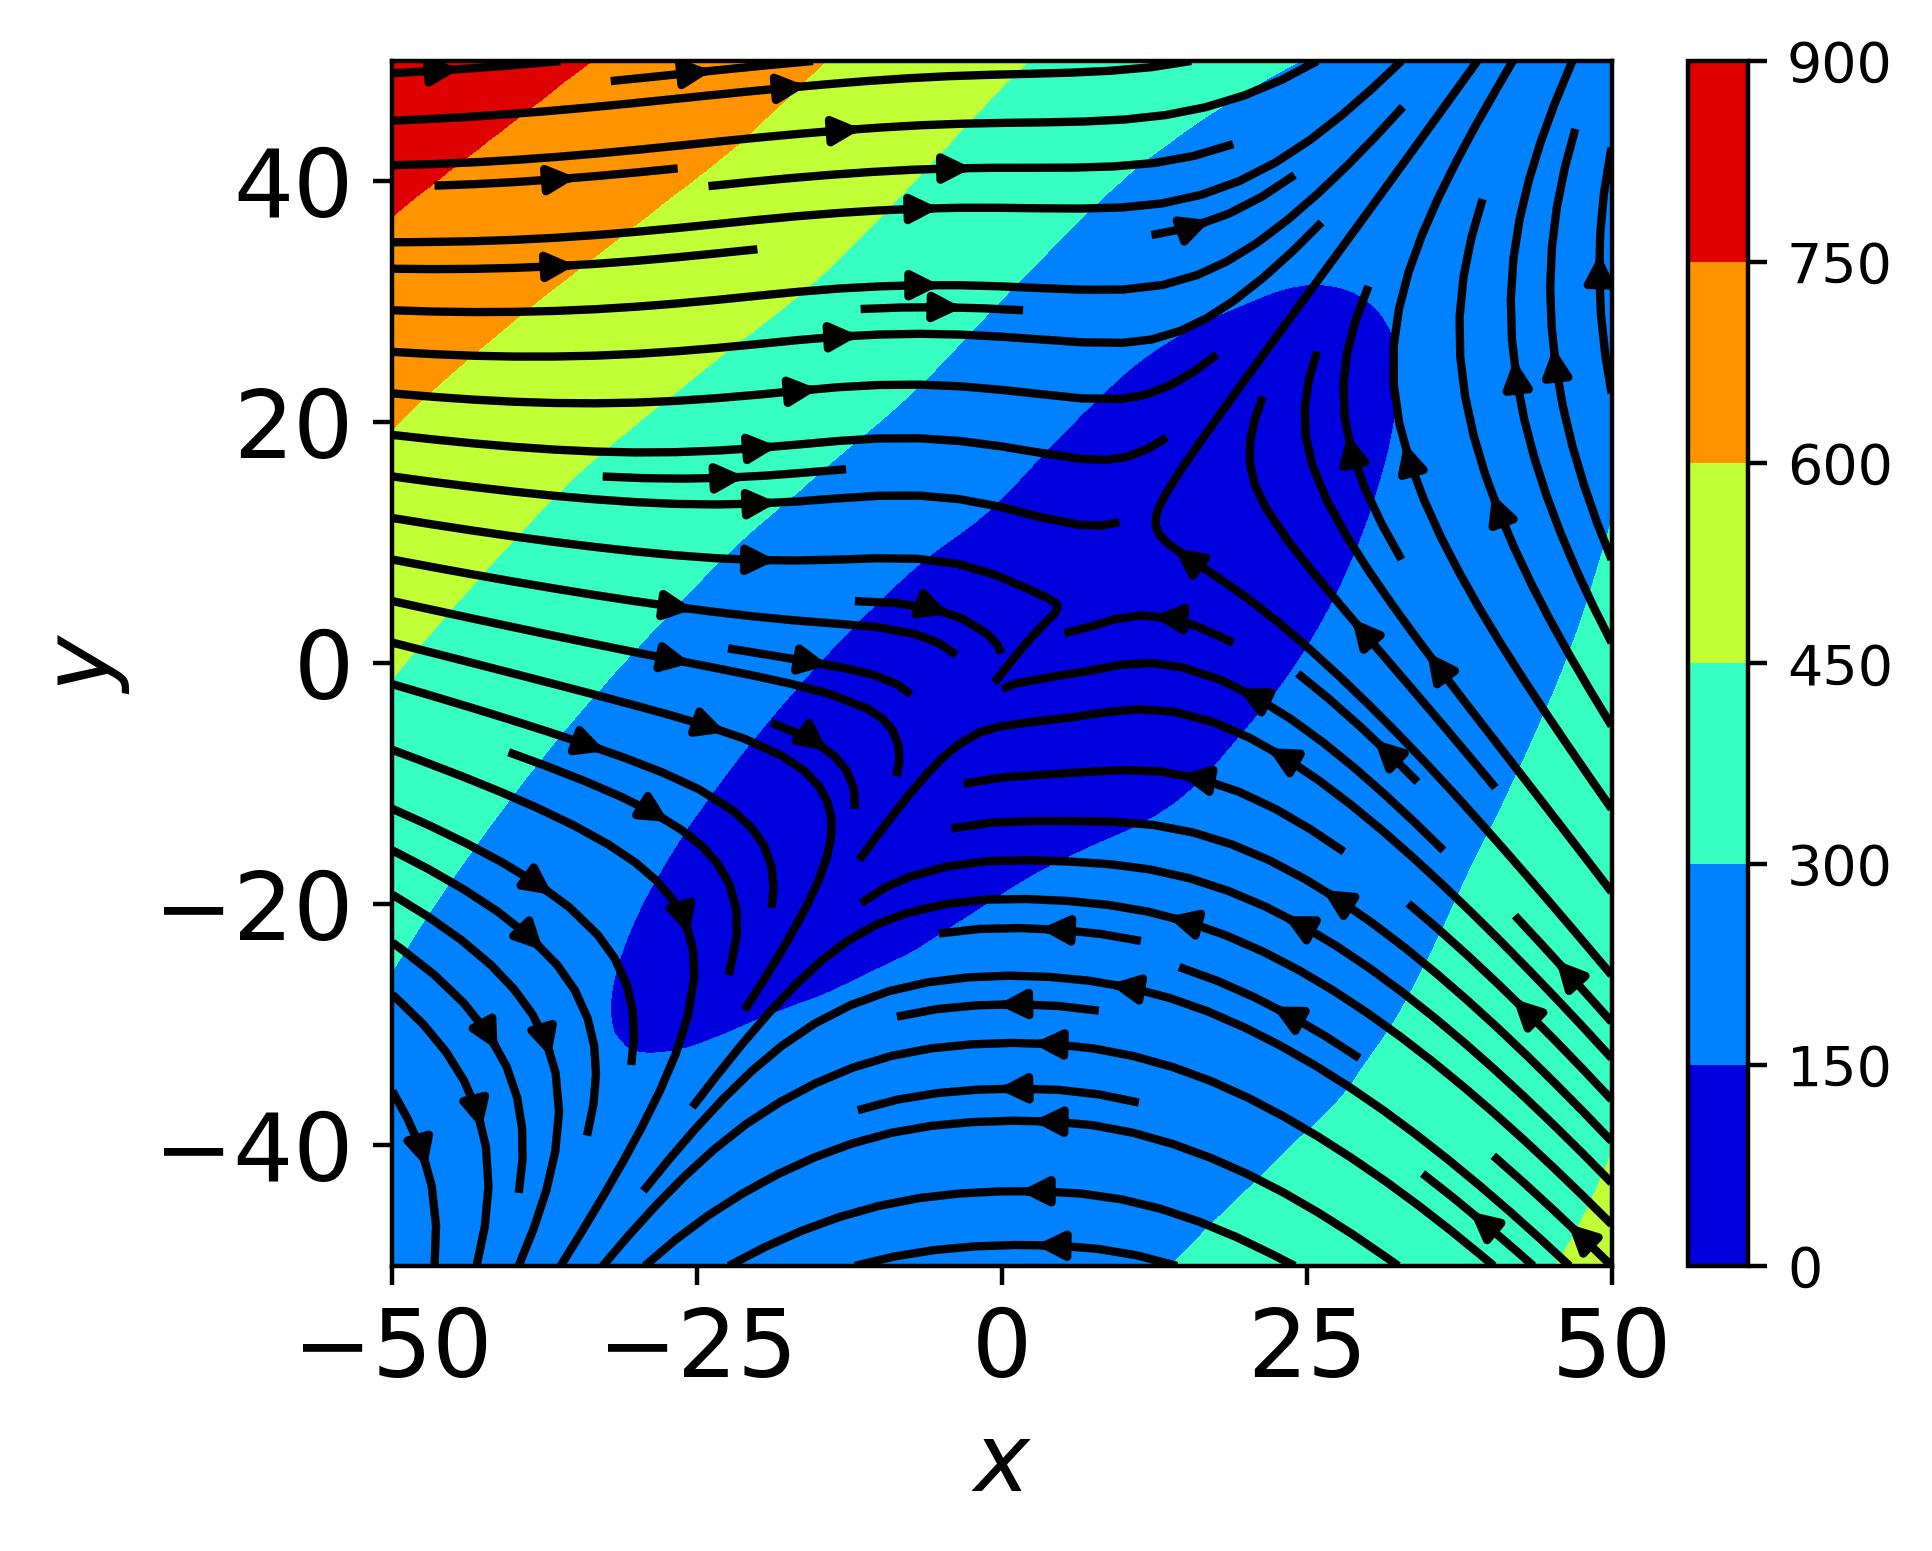
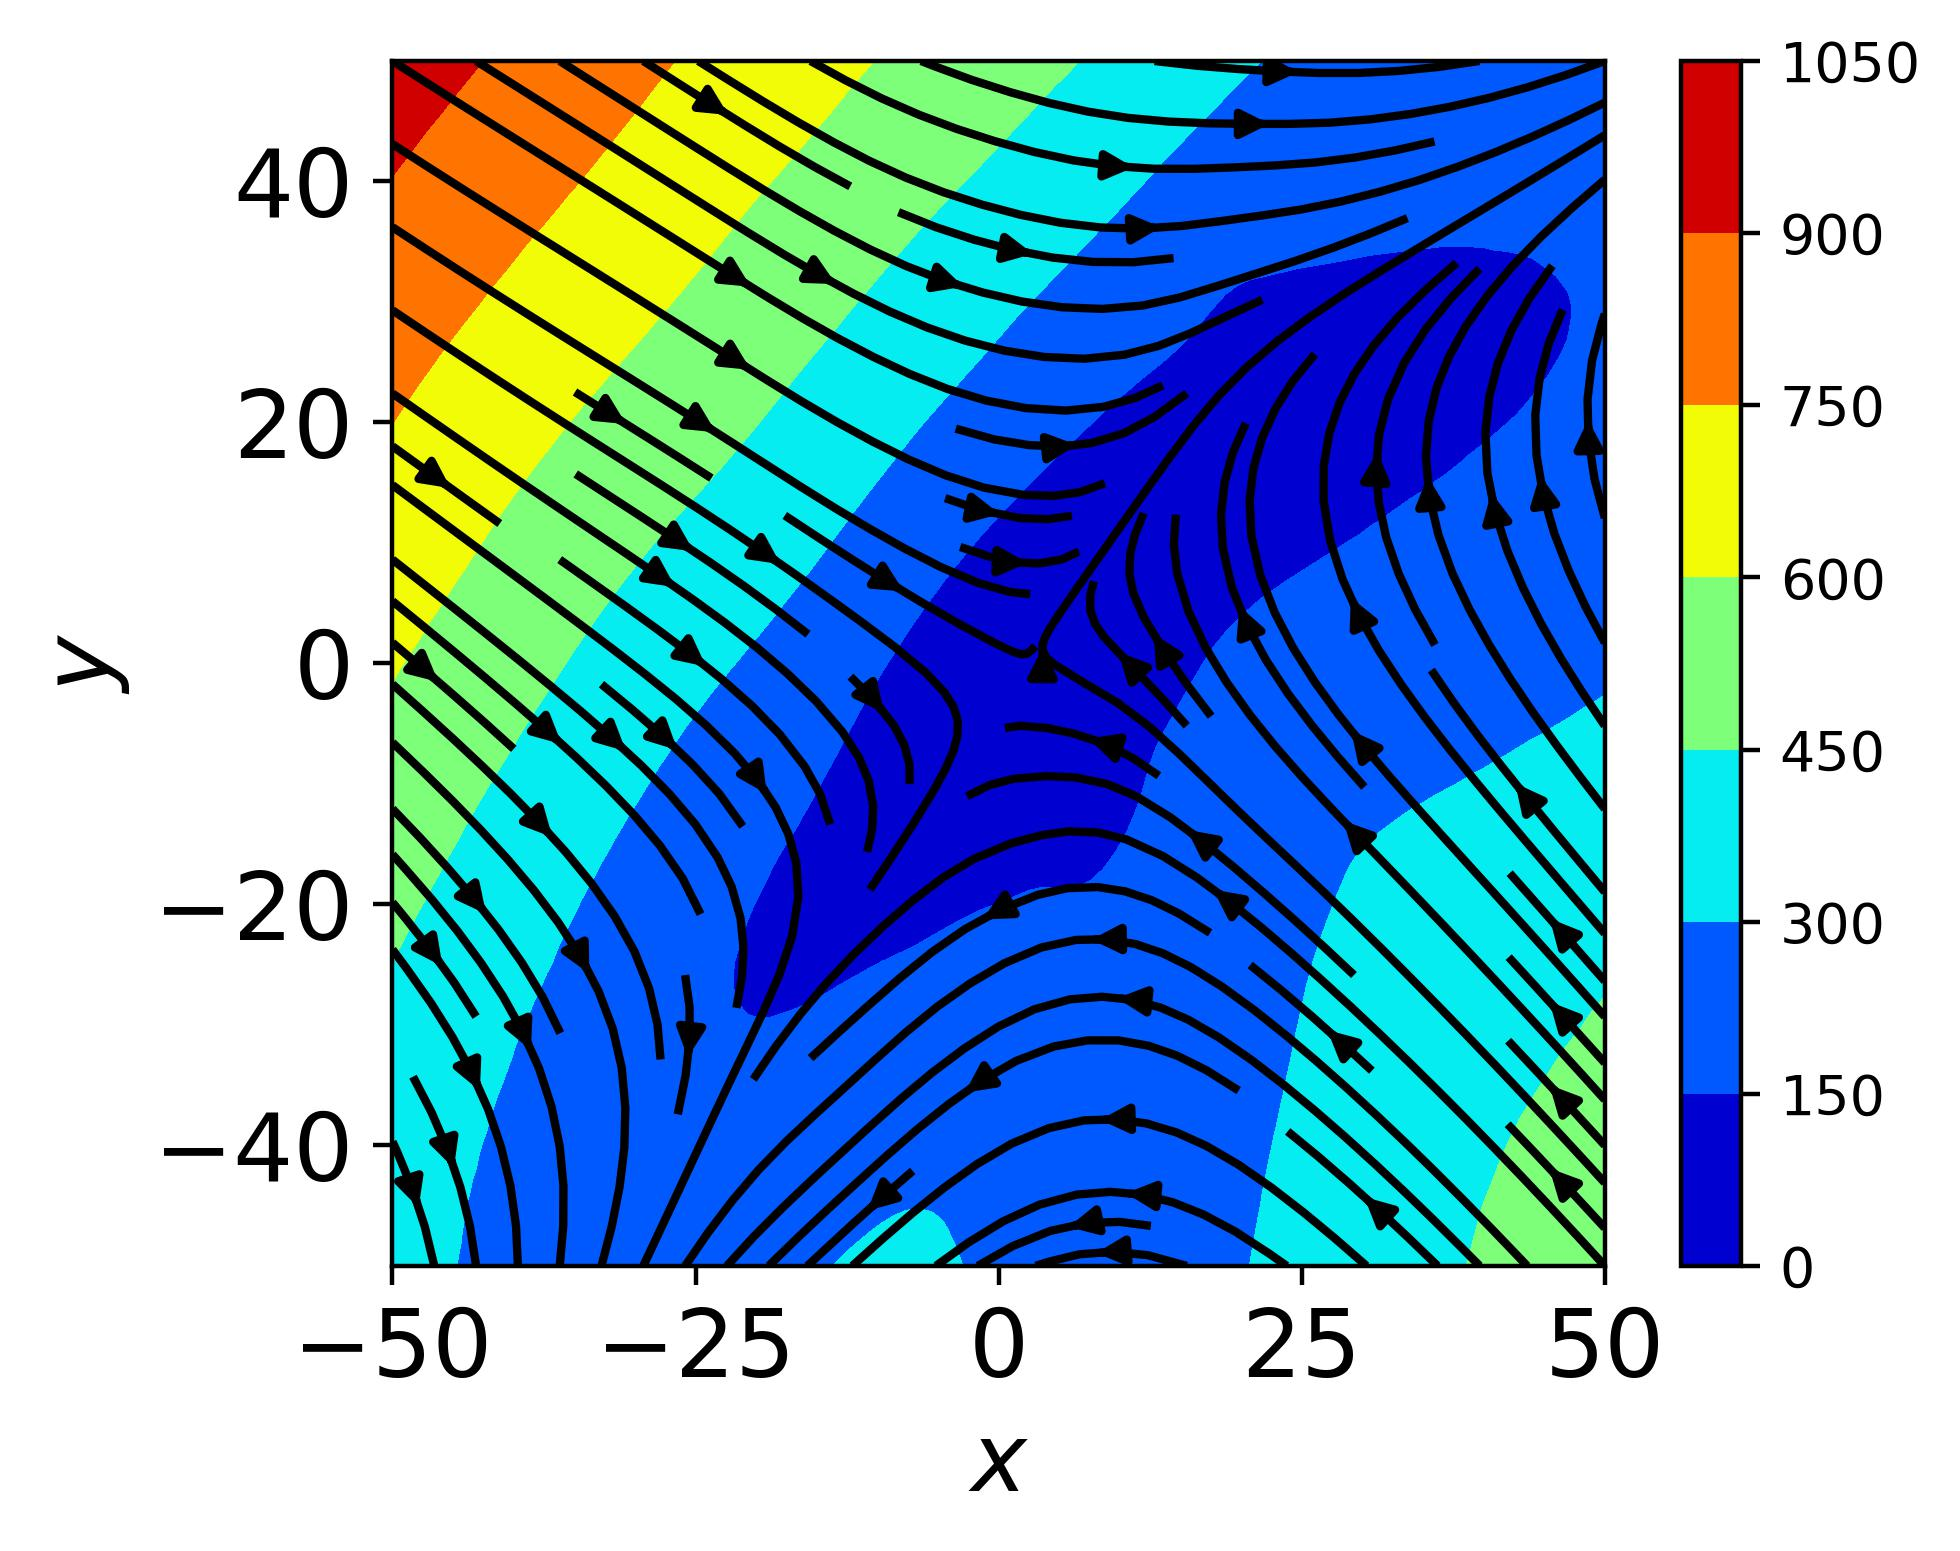
lorenz vector field experiment

diff --git a/test/test_lorenz.py b/test/test_lorenz.py
@@ -64,15 +64,44 @@ class ODE_MLP(nn.Module):
         res = self.net(y)
         return res
 
+class ODE_HigherDim_CNN(nn.Module):
+
+    def __init__(self, y_dim=3, n_hidden=512):
+        super(ODE_HigherDim_CNN, self).__init__()
+        self.emb = nn.Sequential(
+                nn.Linear(3, 9),
+                nn.Linear(9, 9))
+        self.conv2d = nn.Conv2d(1, 1, kernel_size=(3,3), padding=1, bias=False)
+        self.net = nn.Sequential(
+            nn.Linear(9, n_hidden),
+            nn.GELU(),
+            nn.Linear(n_hidden, n_hidden),
+            nn.GELU(),
+            nn.Linear(n_hidden, 3)
+        )
+
+    def forward(self, t, y):
+        matrix = self.emb(y)
+        matrix = matrix.reshape(-1, 1, 3, 3)
+
+        # y = torch.matmul(matrix.reshape(-1, 3, 3), y.T)
+        # y = self.conv2d(y)
+        y = self.conv2d(matrix)
+        y = self.conv2d(y)
+        y = self.conv2d(y)
+        res = self.net(y.reshape(-1, 9))
+        return res
+
 class ODE_CNN(nn.Module):
 
     def __init__(self, y_dim=3, n_hidden=512):
         super(ODE_CNN, self).__init__()
         self.conv1d = nn.Conv1d(3, 3, kernel_size=3, padding=1, bias=False)
         self.conv2d = nn.Conv2d(1, 1, kernel_size=(5,5), padding=2, bias=False)
-        self.activation = nn.GELU()
         self.net = nn.Sequential(
             nn.Linear(3, n_hidden),
+            nn.GELU(),
+            nn.Linear(n_hidden, n_hidden),
             nn.GELU(),
             nn.Linear(n_hidden, 3)
         )
@@ -81,23 +110,12 @@ class ODE_CNN(nn.Module):
         if y.dim() == 1: # needed for vmap
             y = y.reshape(1, -1)
         
-        # y = self.net(y)
-        # encoded_y = self.conv1d(y.T)
-        # encoded_y = self.conv1d(encoded_y)
-        # res = self.net(encoded_y.T)
-
-        # encoded_y = self.net(y)
-        # y = self.conv1d(encoded_y.T)
-        # res = y.T
-
-        # y = self.net(y)
         y = torch.unsqueeze(y.T, 0)
-        encoded_y = self.conv2d(y)
-        encoded_y = self.conv2d(encoded_y)
-        encoded_y = self.conv2d(encoded_y)
-        # res = self.net(encoded_y.squeeze().T)
-        res = encoded_y.squeeze().T
-        return res
+        y = self.conv2d(y)
+        y = self.conv2d(y)
+        y = self.conv2d(y)
+        y = self.net(y.squeeze().T)
+        return y
 
 
 
@@ -169,8 +187,9 @@ def train(dyn_sys_info, model, device, dataset, optim_name, criterion, epochs, l
 
         # Save Training and Test History
         if i % (epochs//n_store) == 0 or (i == epochs-1):
-            JAC_plot_path = '../plot/Vector_field/train_cnn/JAC_'+str(i)+'.jpg'
-            plot_vector_field(model, path=JAC_plot_path, idx=1, t=0., N=100, device='cuda')
+            if loss_type == "Jacobian":
+                JAC_plot_path = '../plot/Vector_field/train_cnn/JAC_'+str(i)+'.jpg'
+                plot_vector_field(model, path=JAC_plot_path, idx=1, t=0., N=100, device='cuda')
 
             with torch.no_grad():
                 model.eval()
@@ -361,14 +380,14 @@ if __name__ == '__main__':
     parser.add_argument("--time_step", type=float, default=1e-2)
     parser.add_argument("--lr", type=float, default=1e-3)
     parser.add_argument("--weight_decay", type=float, default=5e-4)
-    parser.add_argument("--num_epoch", type=int, default=5000)
+    parser.add_argument("--num_epoch", type=int, default=2000)
     parser.add_argument("--num_train", type=int, default=8000)
     parser.add_argument("--num_test", type=int, default=6000)
     parser.add_argument("--num_trans", type=int, default=0)
     parser.add_argument("--loss_type", default="MSE", choices=["Jacobian", "MSE"])
-    parser.add_argument("--model_type", default="MLP", choices=["MLP", "CNN", "GRU"])
+    parser.add_argument("--model_type", default="MLP", choices=["MLP", "CNN", "HigherDimCNN", "GRU"])
     parser.add_argument("--n_hidden", type=int, default=512)
-    parser.add_argument("--reg_param", type=float, default=500)
+    parser.add_argument("--reg_param", type=float, default=800)
     parser.add_argument("--optim_name", default="AdamW", choices=["AdamW", "Adam", "RMSprop", "SGD"])
 
 
@@ -386,6 +405,8 @@ if __name__ == '__main__':
         m = ODE_MLP(y_dim=dim, n_hidden=args.n_hidden).to(device)
     elif args.model_type == "CNN":
         m = ODE_CNN(y_dim=dim, n_hidden=args.n_hidden).to(device)
+    elif args.model_type == "HigherDimCNN":
+        m = ODE_HigherDim_CNN(y_dim=dim, n_hidden=args.n_hidden).to(device)
 
     print("Training...") # Train the model, return node
     epochs, loss_hist, test_loss_hist= train(dyn_sys_info, m, device, dataset, args.optim_name, criterion, args.num_epoch, args.lr, args.weight_decay, args.reg_param, args.loss_type)
